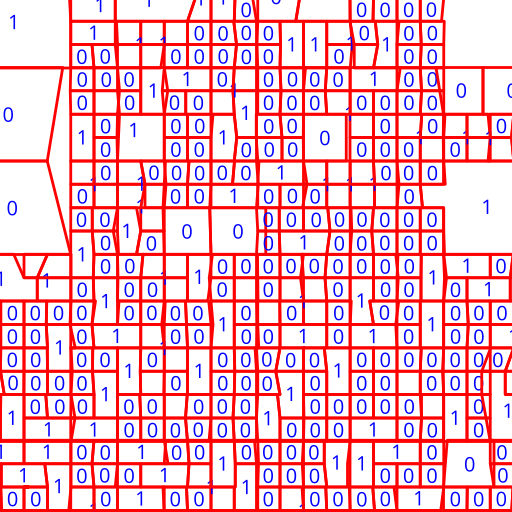
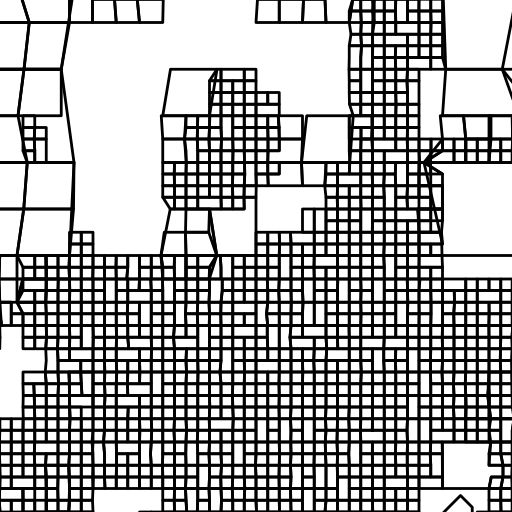
starting to actually style the map

diff --git a/lib/generate-river.ts b/lib/generate-river.ts
@@ -63,7 +63,10 @@ function generateRiver(opts: IGenerateCityOpts): GeoJSON.Feature[] {
                 .map((riverLine: GeoJSON.Feature) => riverLine.geometry.coordinates)
                 .uniq()
                 .flatten()
-                .value()
+                .value(),
+            {
+                river: true
+            }
         );
 
     return [riverLineString]
